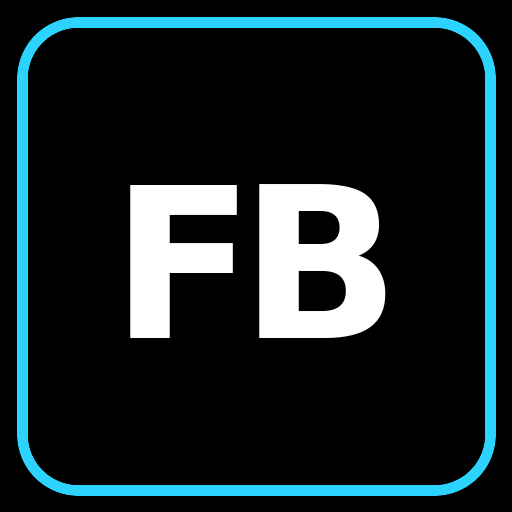
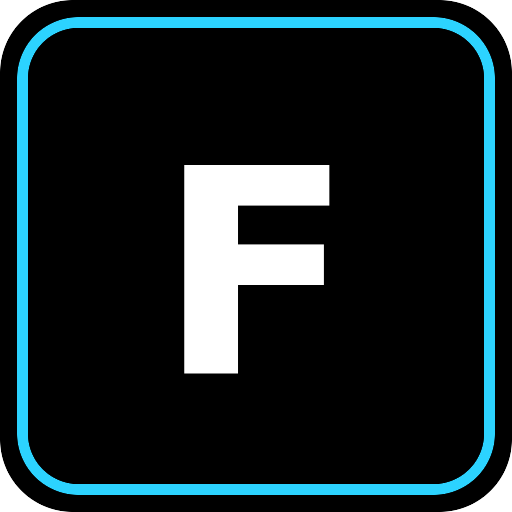
Add files via upload

diff --git a/index.html b/index.html
@@ -2,6 +2,9 @@
 <html lang="en" dir="ltr">
 <head>
   <meta charset="utf-8" />
+  <meta http-equiv="Cache-Control" content="no-store, no-cache, must-revalidate" />
+  <meta http-equiv="Pragma" content="no-cache" />
+  <meta http-equiv="Expires" content="0" />
   <meta id="viewportMeta" name="viewport" content="width=device-width,initial-scale=1,viewport-fit=cover" />
   <meta name="theme-color" content="#050607" />
   <meta name="description" content="FilmBoard — collaborative pre-production planning." />
@@ -12,10 +15,10 @@
   <link rel="apple-touch-icon" href="apple-touch-icon.png" />
   <link rel="manifest" href="manifest.webmanifest" />
 
-  <link rel="stylesheet" href="styles.css?v=580" />
+  <link rel="stylesheet" href="filmboard-styles-v510.css" />
   <script src="https://cdn.jsdelivr.net/npm/@supabase/supabase-js@2.116.0"></script>
-  <script src="config.js?v=580"></script>
-  <meta name="storyboard-build" content="v5.8.0-keyframe-timeline-fix" />
+  <script src="filmboard-config-v510.js"></script>
+  <meta name="storyboard-build" content="v5.10.0-ui-theme-lighting" />
 </head>
 <body>
 
@@ -36,7 +39,7 @@
   <section id="authView" class="auth-view" hidden>
     <div class="auth-shell">
       <div class="auth-brand">
-        <div class="s-logo">FB</div>
+        <div class="s-logo">F</div>
         <div>
           <div class="eyebrow">FILMBOARD</div>
           <h1>FilmBoard</h1>
@@ -105,7 +108,7 @@
   <section id="projectsView" class="projects-view" hidden>
     <header class="dashboard-head">
       <div class="brand-row">
-        <div class="s-logo small-logo">FB</div>
+        <div class="s-logo small-logo">F</div>
         <div>
           <div class="eyebrow">PROJECTS</div>
           <h1>FilmBoard</h1>
@@ -151,12 +154,18 @@
       <div class="dashboard-hint">Drag your own project cards to reorder them. Order is saved automatically.</div>
       <div id="projectsGrid" class="projects-grid"></div>
       <div id="projectsEmpty" class="empty-state" hidden>
-        <div class="s-logo empty-logo">FB</div>
+        <div class="s-logo empty-logo">F</div>
         <h2 id="projectsEmptyTitle">No projects yet</h2>
         <p id="projectsEmptyCopy">Create your first storyboard project.</p>
         <button id="emptyNewProjectBtn" class="btn">Create Project</button>
       </div>
     </main>
+    <div id="projectOpenFeedback" class="project-open-feedback" role="status" aria-live="assertive" hidden>
+      <div class="project-open-feedback-card">
+        <span class="project-open-spinner" aria-hidden="true"></span>
+        <div><strong>Opening project…</strong><small id="projectOpenFeedbackName">Sending project request to the database…</small></div>
+      </div>
+    </div>
     <div class="creator-credit dashboard-credit">© 2026 <a href="https://aminkhorsandi.com" target="_blank" rel="noopener">Amin Khorsandi</a></div>
   </section>
 
@@ -164,7 +173,7 @@
   <section id="adminView" class="admin-view" hidden>
     <header class="dashboard-head admin-dashboard-head">
       <div class="brand-row">
-        <div class="s-logo small-logo">FB</div>
+        <div class="s-logo small-logo">F</div>
         <div>
           <div class="eyebrow">SECURE SUPPORT CONSOLE</div>
           <h1>Admin Center</h1>
@@ -812,7 +821,7 @@
 
 
 
-  <!-- LIGHTING STUDIO v5.8 -->
+  <!-- LIGHTING STUDIO v5.10 -->
   <dialog id="lightingDiagramModal" class="lighting-studio-modal">
     <div class="lighting-studio-shell">
 
@@ -916,7 +925,7 @@
 
         <section id="lightingCameraTimeline" class="lighting-camera-timeline" aria-label="Shot movement timeline">
           <header>
-            <div><strong>SHOT TIMELINE</strong><small>Camera and character keyframes share one playhead and shot duration.</small></div>
+            <div><strong>SHOT TIMELINE <span class="lighting-engine-version">KF 5.10</span></strong><small>Camera and character keyframes share one playhead and shot duration.</small></div>
             <label>Duration <input id="lightingTimelineDuration" type="number" min="0.25" max="120" step="0.25" value="4" /> s</label>
           </header>
           <div class="lighting-timeline-timebar">
@@ -951,6 +960,9 @@
             <button id="lightingPlaybackPlayBtn" type="button" class="lighting-playback-btn primary" disabled>▶ Play</button>
             <button id="lightingPlaybackPauseBtn" type="button" class="lighting-playback-btn">Pause</button>
             <button id="lightingPlaybackStopBtn" type="button" class="lighting-playback-btn">Stop</button>
+            <button id="lightingDeleteSelectedKeyframeBtn" type="button" class="lighting-playback-btn danger" disabled aria-label="Delete selected keyframe" title="Delete selected keyframe">
+              <svg viewBox="0 0 24 24" aria-hidden="true"><path d="M4 7h16M9 7V4h6v3M7 7l1 13h8l1-13M10 11v5M14 11v5"></path></svg><span>Delete Keyframe</span>
+            </button>
             <button id="exportLightingVideoBtn" type="button" class="lighting-playback-btn export">Export Video</button>
             <span id="lightingPlaybackStatus" class="lighting-playback-status" aria-live="polite">Add a camera or character keyframe to start.</span>
           </div>
@@ -1281,7 +1293,7 @@
 
         <section class="account-section">
           <div class="account-section-head">
-            <div><h3>Language &amp; App Layout</h3><small>Choose how Storyboard looks on this device.</small></div>
+            <div><h3>Language, Theme &amp; App Layout</h3><small>Choose how FilmBoard looks on this device.</small></div>
           </div>
           <div class="account-form-grid">
             <div>
@@ -1297,6 +1309,14 @@
                 <option value="auto">Automatic</option>
                 <option value="mobile">Mobile Version</option>
                 <option value="desktop">Desktop Version</option>
+              </select>
+            </div>
+            <div>
+              <label for="accountThemeSelect">Theme</label>
+              <select id="accountThemeSelect">
+                <option value="system">System (follows device)</option>
+                <option value="light">Light</option>
+                <option value="dark">Dark</option>
               </select>
             </div>
           </div>
@@ -1338,7 +1358,7 @@
     </div>
   </dialog>
 
-  <script src="i18n.js?v=580"></script>
-  <script src="app.js?v=580"></script>
+  <script src="filmboard-i18n-v510.js"></script>
+  <script src="filmboard-app-v510.js"></script>
 </body>
 </html>

diff --git a/worker.js b/worker.js
@@ -1,4 +1,4 @@
-// FilmBoard v5.8.0 AI gateway: FLUX generation + spatial Bible references.
+// FilmBoard v5.10.0 AI gateway: FLUX generation + spatial Bible references.
 const DEFAULT_MODEL = "@cf/black-forest-labs/flux-2-klein-4b";
 const ALLOWED_MODEL = new Set([DEFAULT_MODEL]);
 const DEFAULT_SCRIPT_MODEL = "@cf/zai-org/glm-4.7-flash";

diff --git a/README.md b/README.md
@@ -1,6 +1,29 @@
-# FilmBoard v5.8.0 — Reliable Keyframe Timeline
+# FilmBoard v5.10.0 — Theme, Lighting Pose & Timeline Controls
 
-This build fixes the complete Lighting Diagram keyframe workflow: the selected time is preserved when Explore starts, every saved pose receives a visible marker, and Play works as soon as a keyframe exists.
+This build adds the requested selected-keyframe deletion, adaptive app themes, stable light settings, clearer project-open feedback and improved desktop/mobile controls.
+
+## v5.10.0 changes
+
+- Adds a red **Delete Keyframe** action for the currently selected camera or character marker, with a confirmation step.
+- Changes the FilmBoard mark and installed-app icons from `FB` to `F`.
+- Enlarges the desktop header actions to the same comfortable size as the app's main buttons.
+- Fixes light-setting edits so Kelvin, intensity, beam or fixture/modifier changes preserve the light's plan position, height, rotation and tilt—including an exact `0°` tilt.
+- Shows an immediate sending state when a project card is opened, then confirms the first successful database response while the rest of the project loads.
+- Adds **System**, **Light** and **Dark** theme preferences in Account. System follows the device color scheme and reacts when it changes.
+- Makes the Lighting Diagram top toolbar a reliable horizontal touch scroller on mobile, including forced Mobile Version mode.
+- Uses unique v5.10 asset filenames: `filmboard-app-v510.js`, `filmboard-styles-v510.css`, `filmboard-i18n-v510.js` and `filmboard-config-v510.js`.
+- No new SQL migration is required for v5.10.0.
+
+## v5.9.0 changes
+
+- Replaces query-string cache busting with unique v5.9 asset filenames: `filmboard-app-v590.js`, `filmboard-styles-v590.css`, `filmboard-i18n-v590.js` and `filmboard-config-v590.js`.
+- Adds Cloudflare `_headers` rules that keep `index.html` out of the browser cache while safely treating the uniquely named assets as immutable.
+- Removes any dependency on the old v5.5–v5.7 Play warning. One saved camera or character pose can play; two points on the same track create movement.
+- Verifies that the exact camera/character id, playhead time and pose were inserted before reporting success.
+- Verifies that the matching DOM marker exists after Add Keyframe and retries the timeline render if necessary.
+- Renders every marker as a large numbered pin with its saved time below it. The marker DOM also carries the saved X/Y position, height and rotation.
+- Adds the visible `KF 5.9` badge to the Shot Timeline so the deployed build can be confirmed immediately.
+- No new SQL migration is required for v5.9.0; keyframes remain in the existing `lighting_diagrams.data.timeline` JSON.
 
 ## v5.8.0 changes
 
@@ -153,7 +176,7 @@ This build fixes the complete Lighting Diagram keyframe workflow: the selected t
 
 ## Existing installation: deployment
 
-v5.8.0 does not add database fields. If the v5.0 and v5.1 migrations already succeeded, do not run another SQL query. Existing hidden Subject fields remain in saved shot data for backward compatibility and are not deleted.
+v5.10.0 does not add database fields. If the v5.0 and v5.1 migrations already succeeded, do not run another SQL query. Existing hidden Subject fields remain in saved shot data for backward compatibility and are not deleted.
 
 1. If `Storyboard v4.8 - Lighting Access Repair` has not already succeeded, run the packaged v4.8 query once using the saved-query instructions from the prior release. Otherwise leave SQL Editor unchanged.
 2. Run `supabase-v5.0-virtual-locations.sql` once if it has not already been run.
@@ -166,8 +189,8 @@ v5.8.0 does not add database fields. If the v5.0 and v5.1 migrations already suc
    ```
 
 6. No Supabase Edge Function redeploy is required.
-7. Hard-refresh the app. Page source should show `styles.css?v=580`, `config.js?v=580`, `i18n.js?v=580`, `app.js?v=580` and build `v5.8.0-keyframe-timeline-fix`.
-8. Open Lighting Diagram, add a camera keyframe at 0 seconds, move the playhead to a later time, enter Explore, change the camera pose and add another keyframe. The time must stay unchanged, both numbered markers must remain visible, and Play must animate between them.
+7. Reload the app. Page source must show `filmboard-styles-v510.css`, `filmboard-config-v510.js`, `filmboard-i18n-v510.js`, `filmboard-app-v510.js` and build `v5.10.0-ui-theme-lighting`. The timeline itself shows a `KF 5.10` badge.
+8. Open Lighting Diagram, add a camera keyframe at 0 seconds, move the playhead to a later time, enter Explore, change the camera pose and add another keyframe. The time must stay unchanged, both numbered and time-labelled markers must remain visible, and Play must animate between them.
 
 ## Fresh Supabase installation
 
